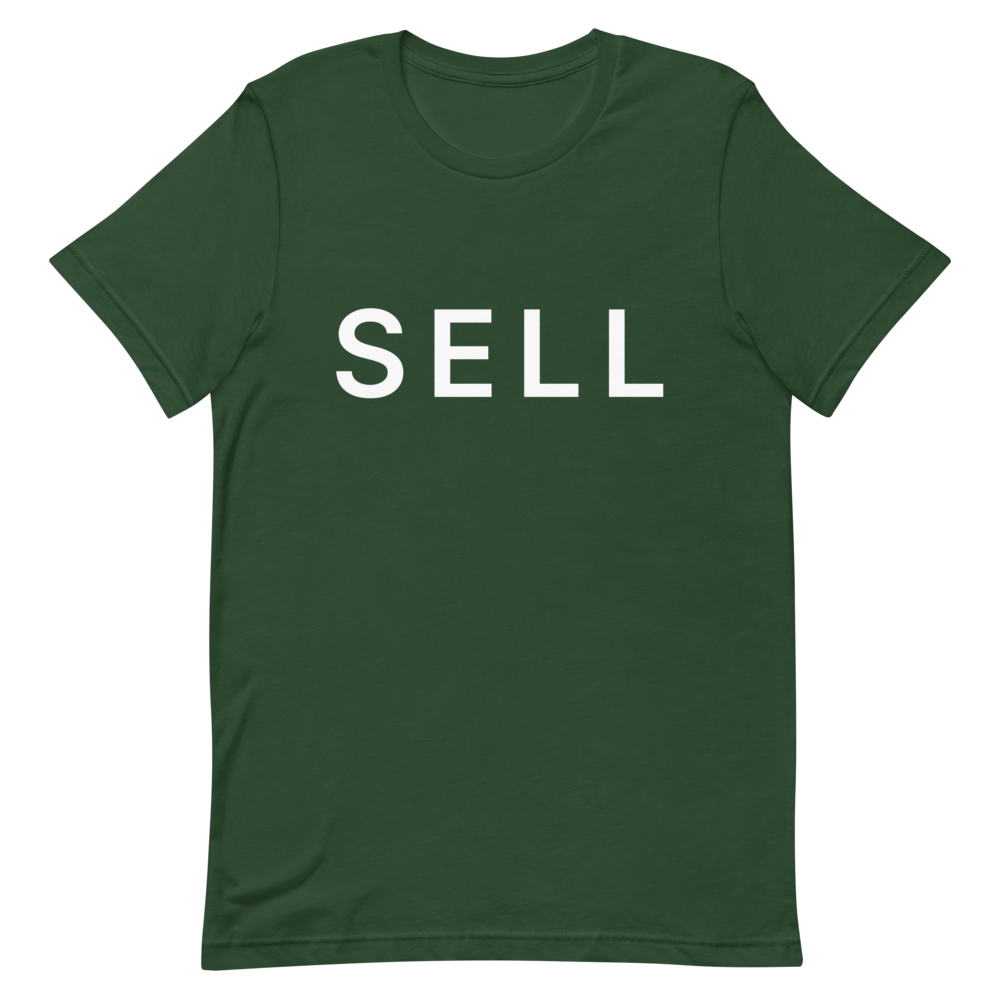
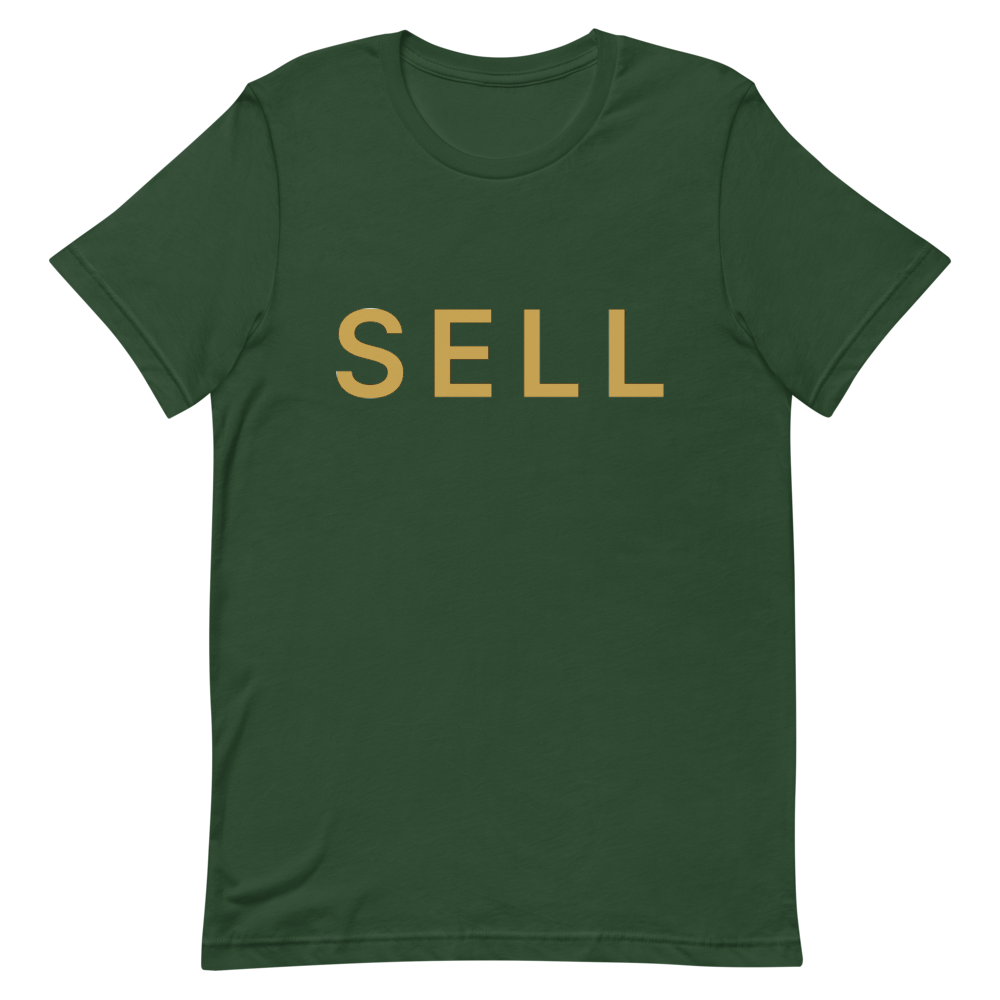
Update NFC North shirt colors

Changed region(s): [[0.527, 0.31, 0.682, 0.403], [0.434, 0.31, 0.496, 0.403], [0.341, 0.31, 0.403, 0.403]]

diff --git a/lib/teams.ts b/lib/teams.ts
@@ -200,7 +200,9 @@ const ALTERNATE_TEE_BLANK: Record<string, string> = {
   "nfl-baltimore": "Black",
   "nfl-buffalo": "Red",
   "nfl-cincinnati": "Black",
+  "nfl-chicago": "Orange",
   "nfl-dallas": "Navy",
+  "nfl-green-bay": "Gold",
   "nfl-cleveland": "Orange",
   "nfl-houston": "Red",
   "nfl-jacksonville": "Black",
@@ -212,6 +214,7 @@ const ALTERNATE_TEE_BLANK: Record<string, string> = {
   "nfl-new-england": "Red",
   "nfl-new-york-green": "Kelly",
   "nfl-pittsburgh": "Black",
+  "nfl-minnesota": "Team Purple",
   "nfl-philadelphia": "Forest",
 };
 const ALTERNATE_HOODIE_BLANK: Record<string, string> = {

diff --git a/lib/products.ts b/lib/products.ts
@@ -77,6 +77,9 @@ export function colorHex(team: Team, style: Style): string {
 }
 
 const TEE_PRINT_OVERRIDES: Record<string, { name: string; hex: string }> = {
+  "nfl-chicago": { name: "orange", hex: "#FF6F00" },
+  "nfl-green-bay": { name: "gold", hex: "#C5A253" },
+  "nfl-minnesota-alternate-one": { name: "gold", hex: "#C5A253" },
   "nfl-dallas": { name: "silver", hex: "#C0C0C0" },
   "nfl-dallas-alternate-one": { name: "red", hex: "#D0071E" },
   "nfl-philadelphia-alternate-one": { name: "pink", hex: "#FF1493" },

diff --git a/lib/art.ts b/lib/art.ts
@@ -1,5 +1,5 @@
 // Bump when the shirt artwork or photos change: Printful caches print files by
 // URL and next/image caches optimized photos by URL, so a new number makes
 // both fetch fresh copies.
-export const ART_VERSION = 36;
+export const ART_VERSION = 37;
 
